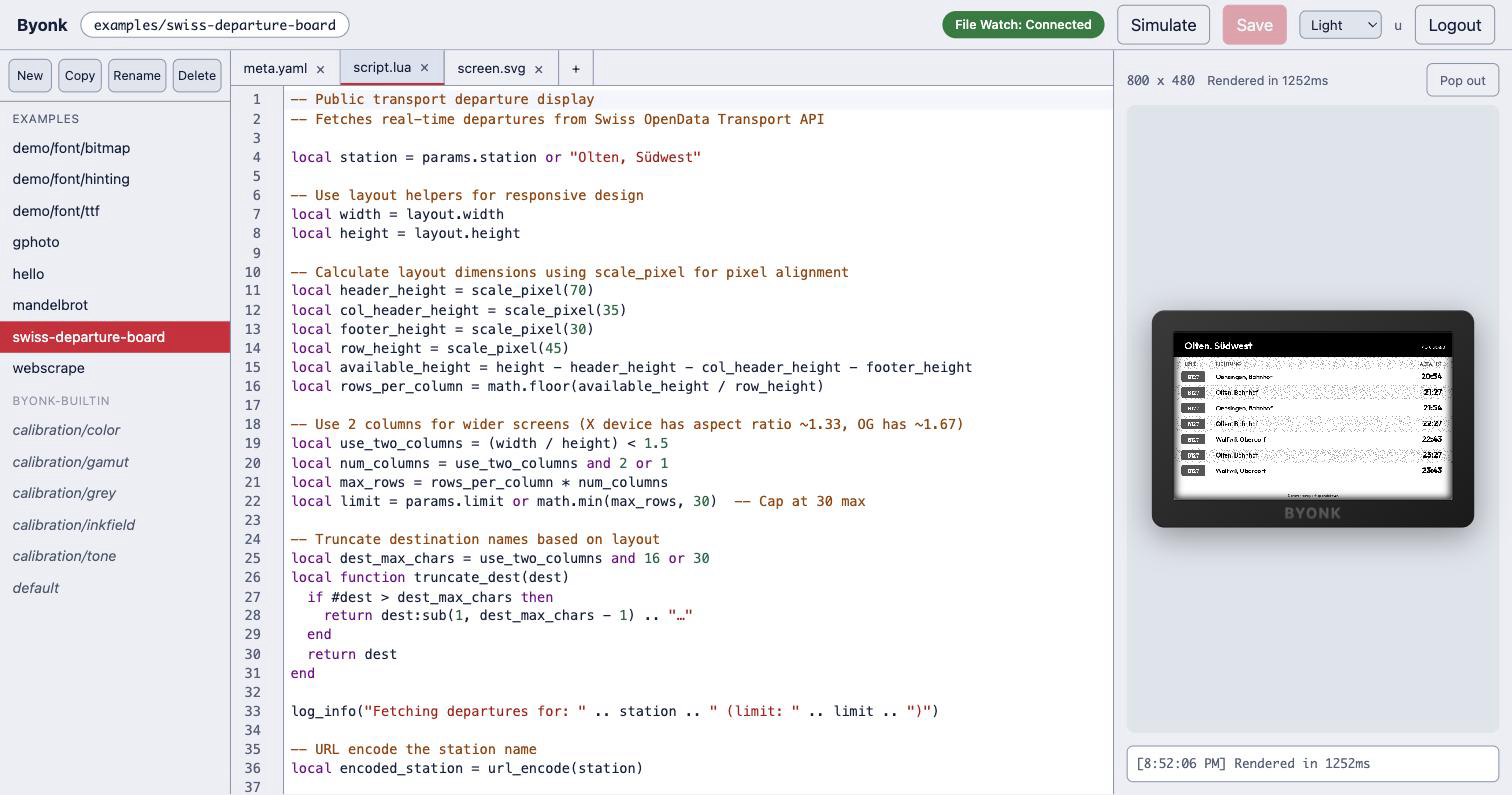
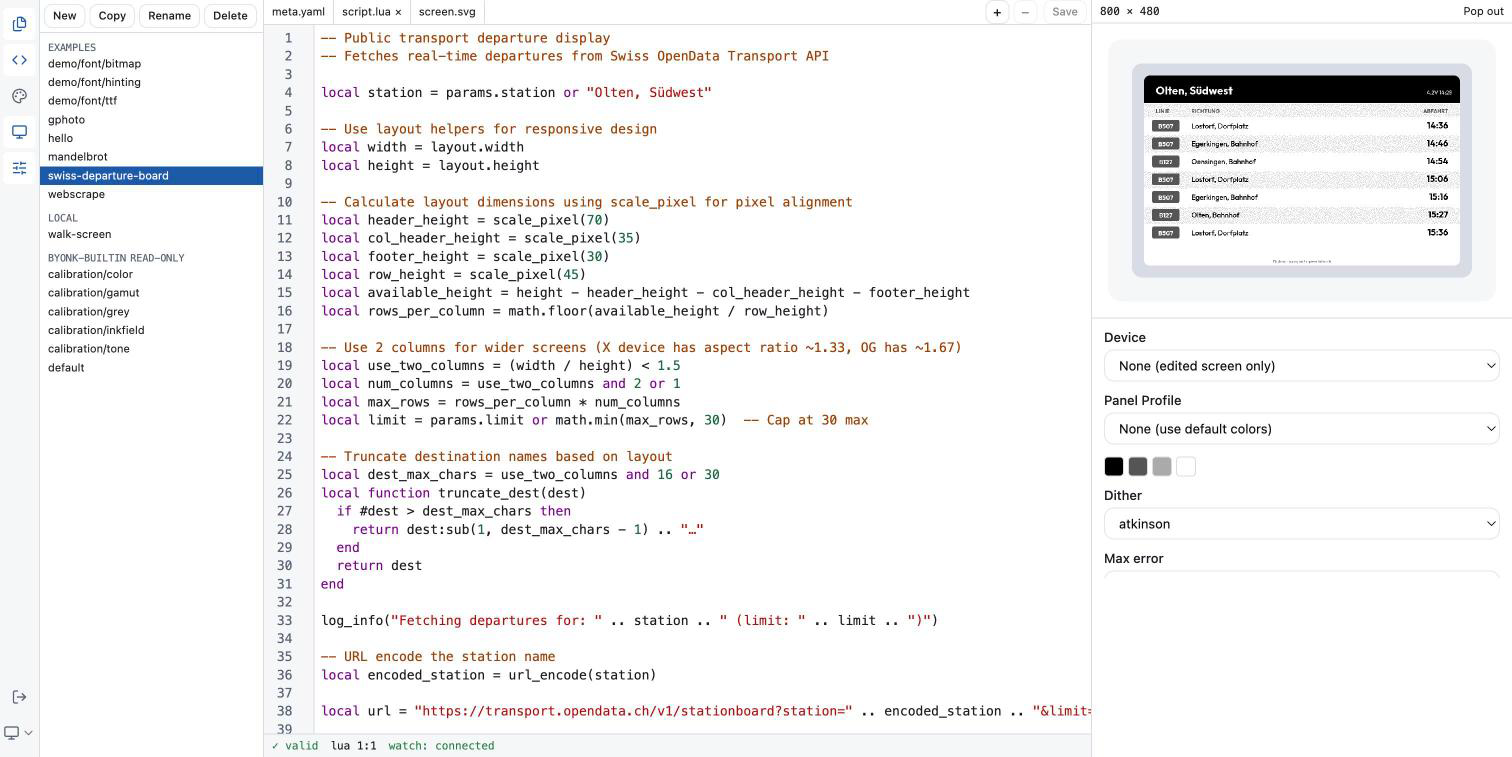
fix(webui): long source lines must not clip the editor toolbar (Finding M)
Found the moment the maintainer brought the Chrome window to the front, which
made a real browser walk possible for the first time this session.

`EditorPane` is a flex item and therefore defaults to `min-width: auto`, which
refuses to shrink below its content's min-content width. CodeMirror's
min-content width is its LONGEST LINE. So a screen whose source has long lines
pushed the whole pane past the SplitPane slot that holds it -- measured at
912px against an 827px slot on `examples/swiss-departure-board` -- and that
slot is `overflow: hidden`, so the 85px hanging over the edge was silently
clipped. What lives in those 85px is the right end of the toolbar: `Save`
became invisible and unclickable, with nothing on screen to explain it.

Fixed with `min-w-0` on the pane and on its toolbar row. The pane then takes
the slot's width and CodeMirror scrolls inside its own `overflow-auto` host,
which is what it was always meant to do. Measured after the fix on the same
screen: overflow 0, all three buttons inside the slot, `.cm-scroller` scrolling.

Three things about this defect are worth recording, because they are why it
survived everything:

  - **It is content-dependent.** `examples/hello` has short lines and shows no
    overflow at all; `swiss-departure-board` does. A walk that happened to
    open a short-lined screen would see nothing wrong.
  - **It is invisible to the test suite and will stay that way.** jsdom has no
[…]

diff --git a/webui/src/lib/components/EditorPane.svelte b/webui/src/lib/components/EditorPane.svelte
@@ -4,6 +4,7 @@
   import { screens } from "../state/screens.svelte.js";
   import { createEditor } from "../codemirror.js";
   import StatusBar from "./StatusBar.svelte";
+  import { Button } from "$lib/ui/button/index.js";
 
   // $state, not a plain `let`: `bind:this` and the assignment inside onMount
   // are both plain writes, and an $effect reading a plain `let` captures its
@@ -141,8 +142,19 @@
   }
 </script>
 
-<div class="flex min-h-0 flex-1 flex-col">
-  <div class="flex items-center border-b border-[var(--border-color)] text-xs">
+<!-- `min-w-0` is load-bearing, not tidiness (Finding M). As a flex item this
+     pane defaults to `min-width: auto`, which refuses to shrink below its
+     content's min-content width -- and CodeMirror's min-content width is its
+     LONGEST LINE. So a screen with long source (examples/swiss-departure-board:
+     912px against an 827px slot) pushed the whole pane 85px past the split
+     slot, which is `overflow: hidden`, silently clipping the right end of the
+     toolbar: `-` and Save became invisible and unclickable, with nothing on
+     screen to explain it. Content-dependent, so it disappeared on a
+     short-lined screen like examples/hello -- which is why it survived every
+     test and the earlier walk. With `min-w-0` the pane takes the slot's width
+     and CodeMirror scrolls inside its own `overflow-auto` host, as intended. -->
+<div class="flex min-h-0 min-w-0 flex-1 flex-col">
+  <div class="flex min-w-0 items-center border-b border-[var(--border-color)] text-xs">
     <div role="tablist" class="flex min-w-0 flex-1 overflow-x-auto">
       <!--
         Iterates `editor.files` (the SCREEN's listing), not `editor.tabs`
@@ -226,43 +238,46 @@
       the server refuses them too (`CORE_FILES`, src/api/dev_files.rs) and is
       the authority -- this only avoids offering an action that cannot work.
     -->
-    <button
+    <Button
       type="button"
+      size="icon-xs"
+      variant="outline"
       aria-label="Add file"
       title="Add a file to this screen"
-      class="mx-0.5 shrink-0 rounded border border-[var(--border-color)] px-2 py-0.5
-             disabled:opacity-40"
+      class="mx-0.5"
       disabled={!canEdit}
       onclick={addFile}
     >
       +
-    </button>
-    <button
+    </Button>
+    <Button
       type="button"
+      size="icon-xs"
+      variant="outline"
       aria-label="Delete file"
       title={deletableName ? `Delete ${deletableName}` : "Select a deletable file"}
-      class="mx-0.5 shrink-0 rounded border border-[var(--border-color)] px-2 py-0.5
-             disabled:opacity-40"
+      class="mx-0.5"
       disabled={!deletableName}
       onclick={deleteFile}
     >
       −
-    </button>
+    </Button>
     <!--
       The keybinding above is invisible unless you already know it's there
       (Ruling 38). Enabled exactly when there is something worth saving --
       same rule the old UI's toolbar Save button used (dev.js: "enabled
       whenever any buffer is dirty").
     -->
-    <button
+    <Button
       type="button"
-      class="mx-1 shrink-0 rounded border border-[var(--border-color)] px-2 py-0.5
-             disabled:opacity-40"
+      size="xs"
+      variant="outline"
+      class="mx-1"
       disabled={!editor.active || editor.active.readOnly || !editor.active.dirty}
       onclick={() => editor.trySave()}
     >
       Save
-    </button>
+    </Button>
   </div>
   <div bind:this={host} class="min-h-0 flex-1 overflow-auto"></div>
   <StatusBar />
